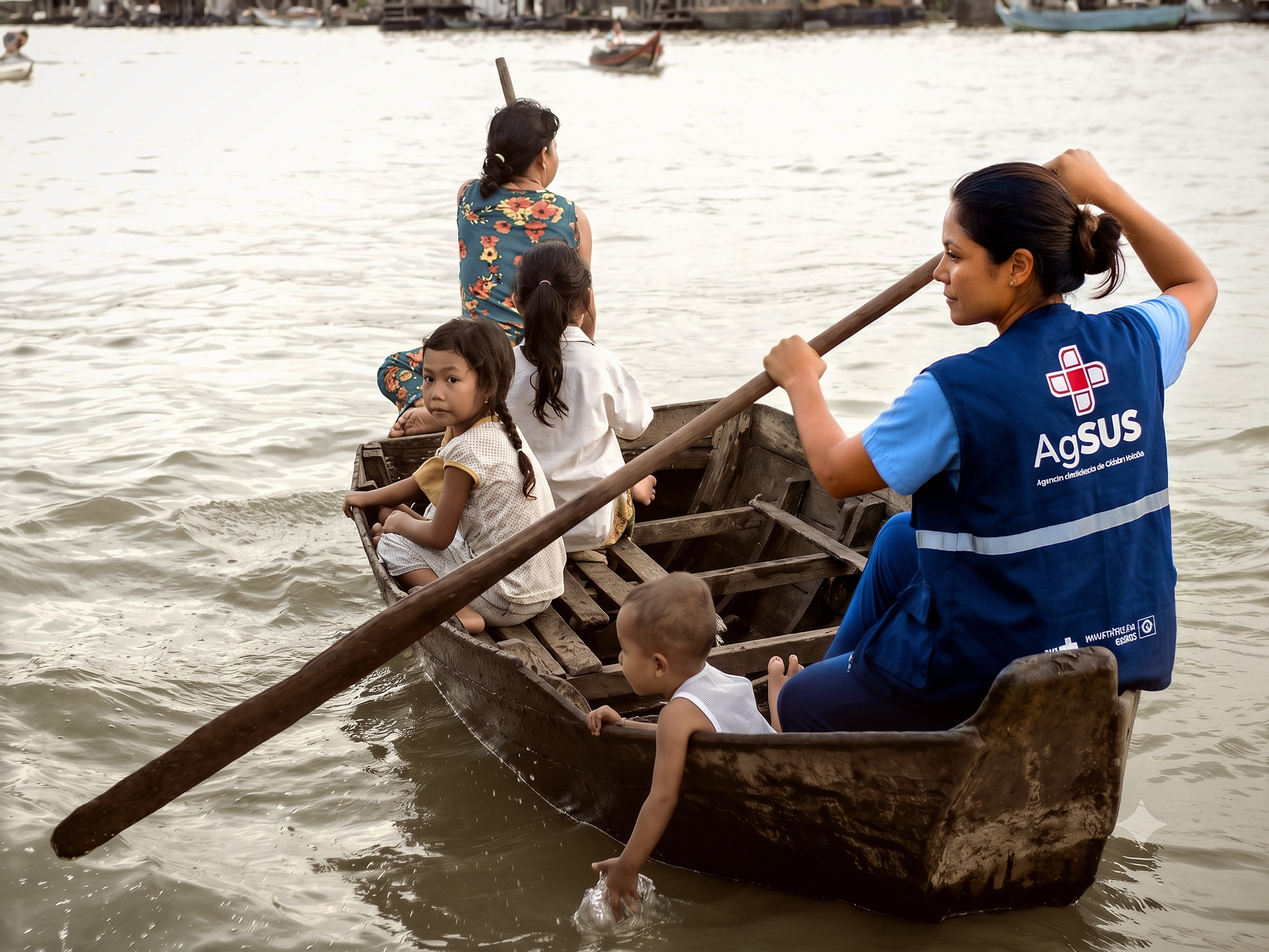
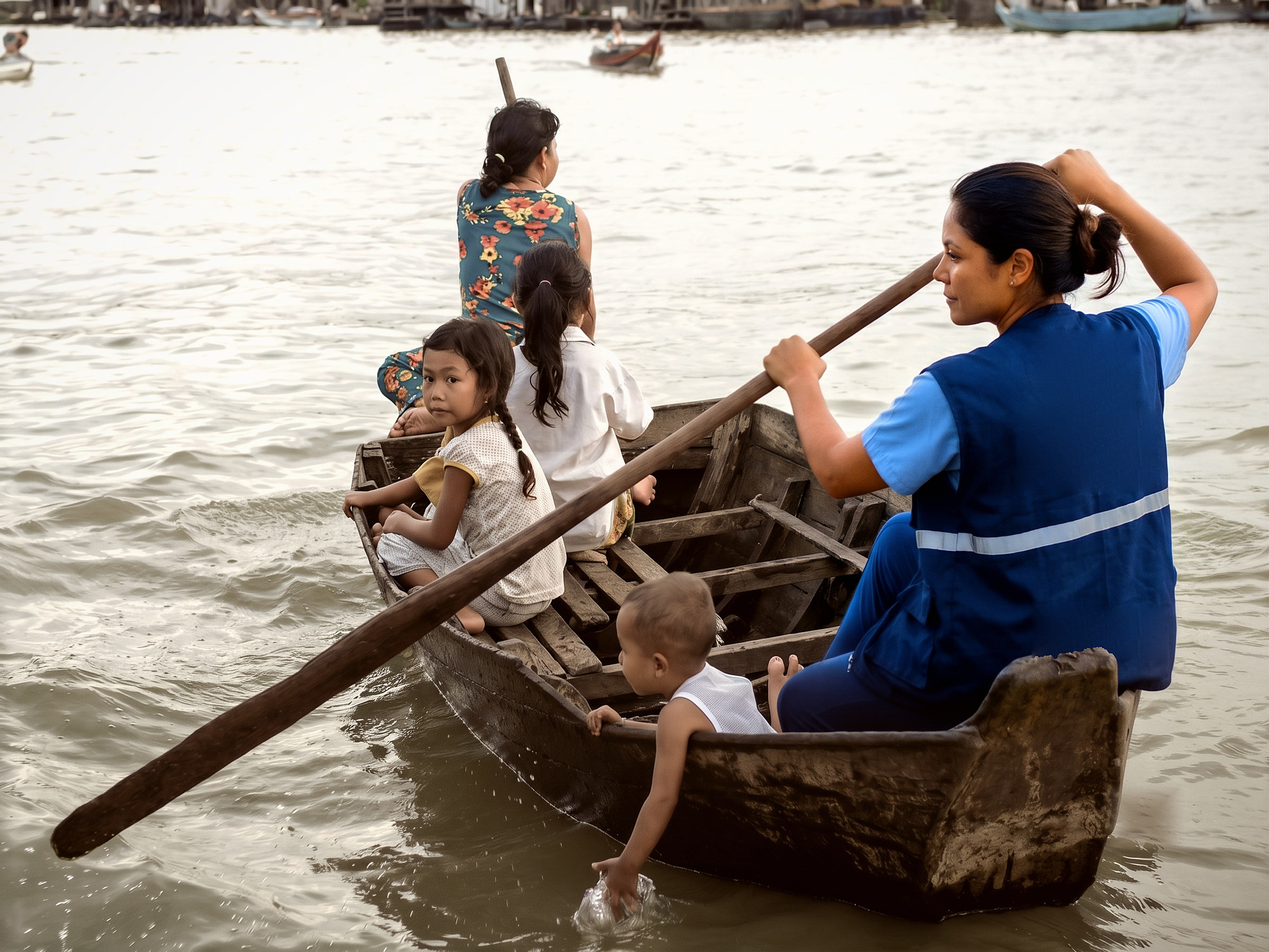
site: apaga marcas do colete e assinatura do Gemini na foto do hero

Changed region(s): [[0.806, 0.3373, 0.899, 0.5213], [0.806, 0.644, 0.93, 0.7053], [0.868, 0.828, 0.93, 0.8893]]

diff --git a/codigo/site/ferramentas/limpa-marcas-e-assinatura.py b/codigo/site/ferramentas/limpa-marcas-e-assinatura.py
@@ -1,0 +1,142 @@
+#!/usr/bin/env python3
+"""
+Retoque na imagem ORIGINAL, antes da grade de cor.
+
+Duas remocoes, com metodos diferentes porque os fundos sao diferentes:
+
+  COLETE (logo, "AgSUS", a linha ilegivel e as marcas de baixo)
+    O tecido e liso, com um degrade de sombra da esquerda para a direita.
+    Entao o buraco e preenchido resolvendo Laplace: cada pixel de dentro vira
+    a media dos vizinhos, com a borda do buraco fixa. Isso continua o degrade
+    do tecido em vez de chapar uma cor. Depois devolvo o grao do proprio
+    tecido, colhido de uma area limpa do colete, senao a mancha fica de
+    plastico no meio de um tecido com textura.
+
+  ESTRELA DO GEMINI
+    Fundo de agua com onda, que Laplace borraria. Aqui e clone: puxo um
+    retalho de agua 118px a direita, na MESMA altura para o degrade vertical
+    bater, e caso a media do retalho com a da borda do buraco.
+"""
+import sys
+import numpy as np
+from PIL import Image, ImageFilter
+from scipy import ndimage, sparse
+from scipy.sparse.linalg import spsolve
+
+SRC, OUT = sys.argv[1], sys.argv[2]
+
+im = Image.open(SRC).convert("RGB")
+img = np.asarray(im, np.float64) / 255.0
+H, W = img.shape[:2]
+
+# ------------------------------------------------------------------ colete --
+# retangulos medidos na imagem 2390x1792, todos dentro do azul-marinho
+CAIXAS = [
+    (1948, 622, 2140, 800),     # cruz
+    (1920, 772, 2176, 925),     # "AgSUS" + a linha ilegivel abaixo
+    (1944, 1142, 2196, 1240),   # as marcas pequenas da barra
+]
+mask = np.zeros((H, W), bool)
+for x0, y0, x1, y1 in CAIXAS:
+    mask[y0:y1, x0:x1] = True
+
+# folga de 2px para a borda do sistema cair em tecido limpo de verdade
+mask = ndimage.binary_dilation(mask, iterations=2)
+
+# A pedra e nitidamente quente, o tecido e frio. Ela sai da area preenchida e
+# tambem sai da lista de vizinhos que podem servir de contorno: e o que impede
+# o marrom dela de subir pelo colete.
+# Só vale abaixo de y=1100, onde a pedra está. Sem esse limite o teste também
+# pegaria a cruz vermelha do logo, que é quente, e ela sobreviveria à limpeza.
+quente = (img[..., 0] - img[..., 2]) > 0.04
+quente[:1100] = False
+pedra = ndimage.binary_dilation(quente, iterations=2)
+mask &= ~pedra
+borda_ok = ~pedra
+
+
+def laplace_fill(canal, m, borda_ok):
+    """Resolve Laplace dentro de m.
+
+    borda_ok diz quais vizinhos de fora podem servir de contorno. Onde ele e
+    falso (a pedra), o vizinho e simplesmente ignorado e a diagonal encolhe:
+    isso e contorno de Neumann, gradiente zero. Na pratica o tecido escorre
+    liso ate a pedra sem copiar a cor dela. Foi o que resolveu o borrao: com
+    Dirichlet, o marrom da pedra entrava como valor fixo e subia pelo colete.
+    """
+    ys, xs = np.nonzero(m)
+    y0, y1, x0, x1 = ys.min() - 1, ys.max() + 2, xs.min() - 1, xs.max() + 2
+    sub, msub = canal[y0:y1, x0:x1].copy(), m[y0:y1, x0:x1]
+    bsub = borda_ok[y0:y1, x0:x1]
+    h, w = sub.shape
+    idx = -np.ones((h, w), int)
+    idx[msub] = np.arange(msub.sum())
+    n = msub.sum()
+
+    linhas, colunas, vals, b = [], [], [], np.zeros(n)
+    yy, xx = np.nonzero(msub)
+    for k, (y, x) in enumerate(zip(yy, xx)):
+        diag = 0.0
+        for dy, dx in ((-1, 0), (1, 0), (0, -1), (0, 1)):
+            ny, nx = y + dy, x + dx
+            if msub[ny, nx]:
+                linhas.append(k); colunas.append(idx[ny, nx]); vals.append(-1.0)
+                diag += 1.0
+            elif bsub[ny, nx]:
+                b[k] += sub[ny, nx]
+                diag += 1.0
+        if diag == 0.0:                      # ilhado: mantem o que ja tinha
+            diag, b[k] = 1.0, sub[y, x]
+        linhas.append(k); colunas.append(k); vals.append(diag)
+    A = sparse.csr_matrix((vals, (linhas, colunas)), shape=(n, n))
+    sub[msub] = spsolve(A, b)
+    canal = canal.copy()
+    canal[y0:y1, x0:x1] = sub
+    return canal
+
+
+limpo = img.copy()
+for c in range(3):
+    limpo[..., c] = laplace_fill(limpo[..., c], mask, borda_ok)
+
+# grao do proprio tecido: faixa limpa do colete logo abaixo da fita refletiva.
+# Tem que ser azul-marinho puro: se entrar agua ou a fita, a estrutura do
+# retalho fica estampada no lugar do texto, que foi o que aconteceu na 1a volta.
+GY0, GY1, GX0, GX1 = 1055, 1135, 1800, 2110
+patch = img[GY0:GY1, GX0:GX1]
+alto = patch - np.asarray(
+    Image.fromarray((patch * 255).astype(np.uint8)).filter(ImageFilter.GaussianBlur(3)),
+    np.float64) / 255.0
+ph, pw = alto.shape[:2]
+grao = np.tile(alto, (H // ph + 1, W // pw + 1, 1))[:H, :W]
+suave = np.asarray(Image.fromarray((mask * 255).astype(np.uint8))
+                   .filter(ImageFilter.GaussianBlur(2)), np.float64) / 255.0
+limpo += grao * suave[..., None]
+
+# ----------------------------------------------------------------- estrela --
+# A caixa é bem maior que a estrela de propósito: a borda do clone precisa de
+# espaço para desaparecer em degradê. Com folga curta, o retângulo aparece.
+EX0, EY0, EX1, EY1 = 2072, 1468, 2236, 1622
+DX = 152                                     # so horizontal: mantem a altura
+alvo = limpo[EY0:EY1, EX0:EX1]
+fonte = limpo[EY0:EY1, EX0 + DX:EX1 + DX].copy()
+
+# casa a media do retalho com a do anel de 8px em volta do buraco, nos quatro
+# lados, para nao restar degrau de tom na emenda
+anel = np.concatenate([
+    limpo[EY0 - 8:EY0, EX0:EX1].reshape(-1, 3),
+    limpo[EY1:EY1 + 8, EX0:EX1].reshape(-1, 3),
+    limpo[EY0:EY1, EX0 - 8:EX0].reshape(-1, 3),
+    limpo[EY0:EY1, EX1:EX1 + 8].reshape(-1, 3),
+])
+fonte += anel.mean(0) - fonte.reshape(-1, 3).mean(0)
+
+h, w = alvo.shape[:2]
+fy = np.minimum(np.arange(h), h - 1 - np.arange(h)) / (h * 0.42)
+fx = np.minimum(np.arange(w), w - 1 - np.arange(w)) / (w * 0.42)
+f = np.clip(np.minimum.outer(fy, fx), 0, 1)
+f = f * f * (3 - 2 * f)
+limpo[EY0:EY1, EX0:EX1] = alvo * (1 - f[..., None]) + fonte * f[..., None]
+
+Image.fromarray((np.clip(limpo, 0, 1) * 255 + 0.5).astype(np.uint8)).save(OUT)
+print("gerado:", OUT)

diff --git a/sessoes/sessao-2026-08-04.md b/sessoes/sessao-2026-08-04.md
@@ -58,3 +58,20 @@ desktop. Ofereci apagar o texto do colete. A página Urgências ainda usa a pala
 
 Auto-push estava parado há 23 commits: dois commits feitos pelo GitHub no navegador (markdowns
 da ECOA) travavam o push desde então. Resolvido com rebase, sem conflito. Repo sincronizado.
+
+### Retoque: colete limpo e assinatura do Gemini removida (12h)
+
+Apagados da foto do hero: o logo tipo SUS, o "AgSUS", a linha ilegível abaixo dele, as marcas
+pequenas da barra do colete e a estrela de 4 pontas do Gemini na água. Retoque feito na imagem
+ORIGINAL e a grade refeita por cima, para o conserto ficar debaixo do tratamento de cor.
+
+Método em `codigo/site/ferramentas/limpa-marcas-e-assinatura.py`: Laplace no tecido (que continua
+o degradê da sombra em vez de chapar cor) mais reenxerto de grão do próprio colete; clone com
+casamento de tom na água da estrela.
+
+Duas armadilhas que custaram voltas e ficam registradas:
+1. Onde a barra do colete encosta na pedra, o Laplace com contorno fixo usava o marrom da pedra
+   como valor de borda e o espalhava colete acima. Resolvido com contorno de Neumann: ali o
+   vizinho é ignorado em vez de obedecido.
+2. O corte por cor que protege a pedra é quente e estava valendo para a imagem inteira, então
+   apagava a cruz VERMELHA da máscara e o logo voltava. Agora só vale abaixo de y=1100.
